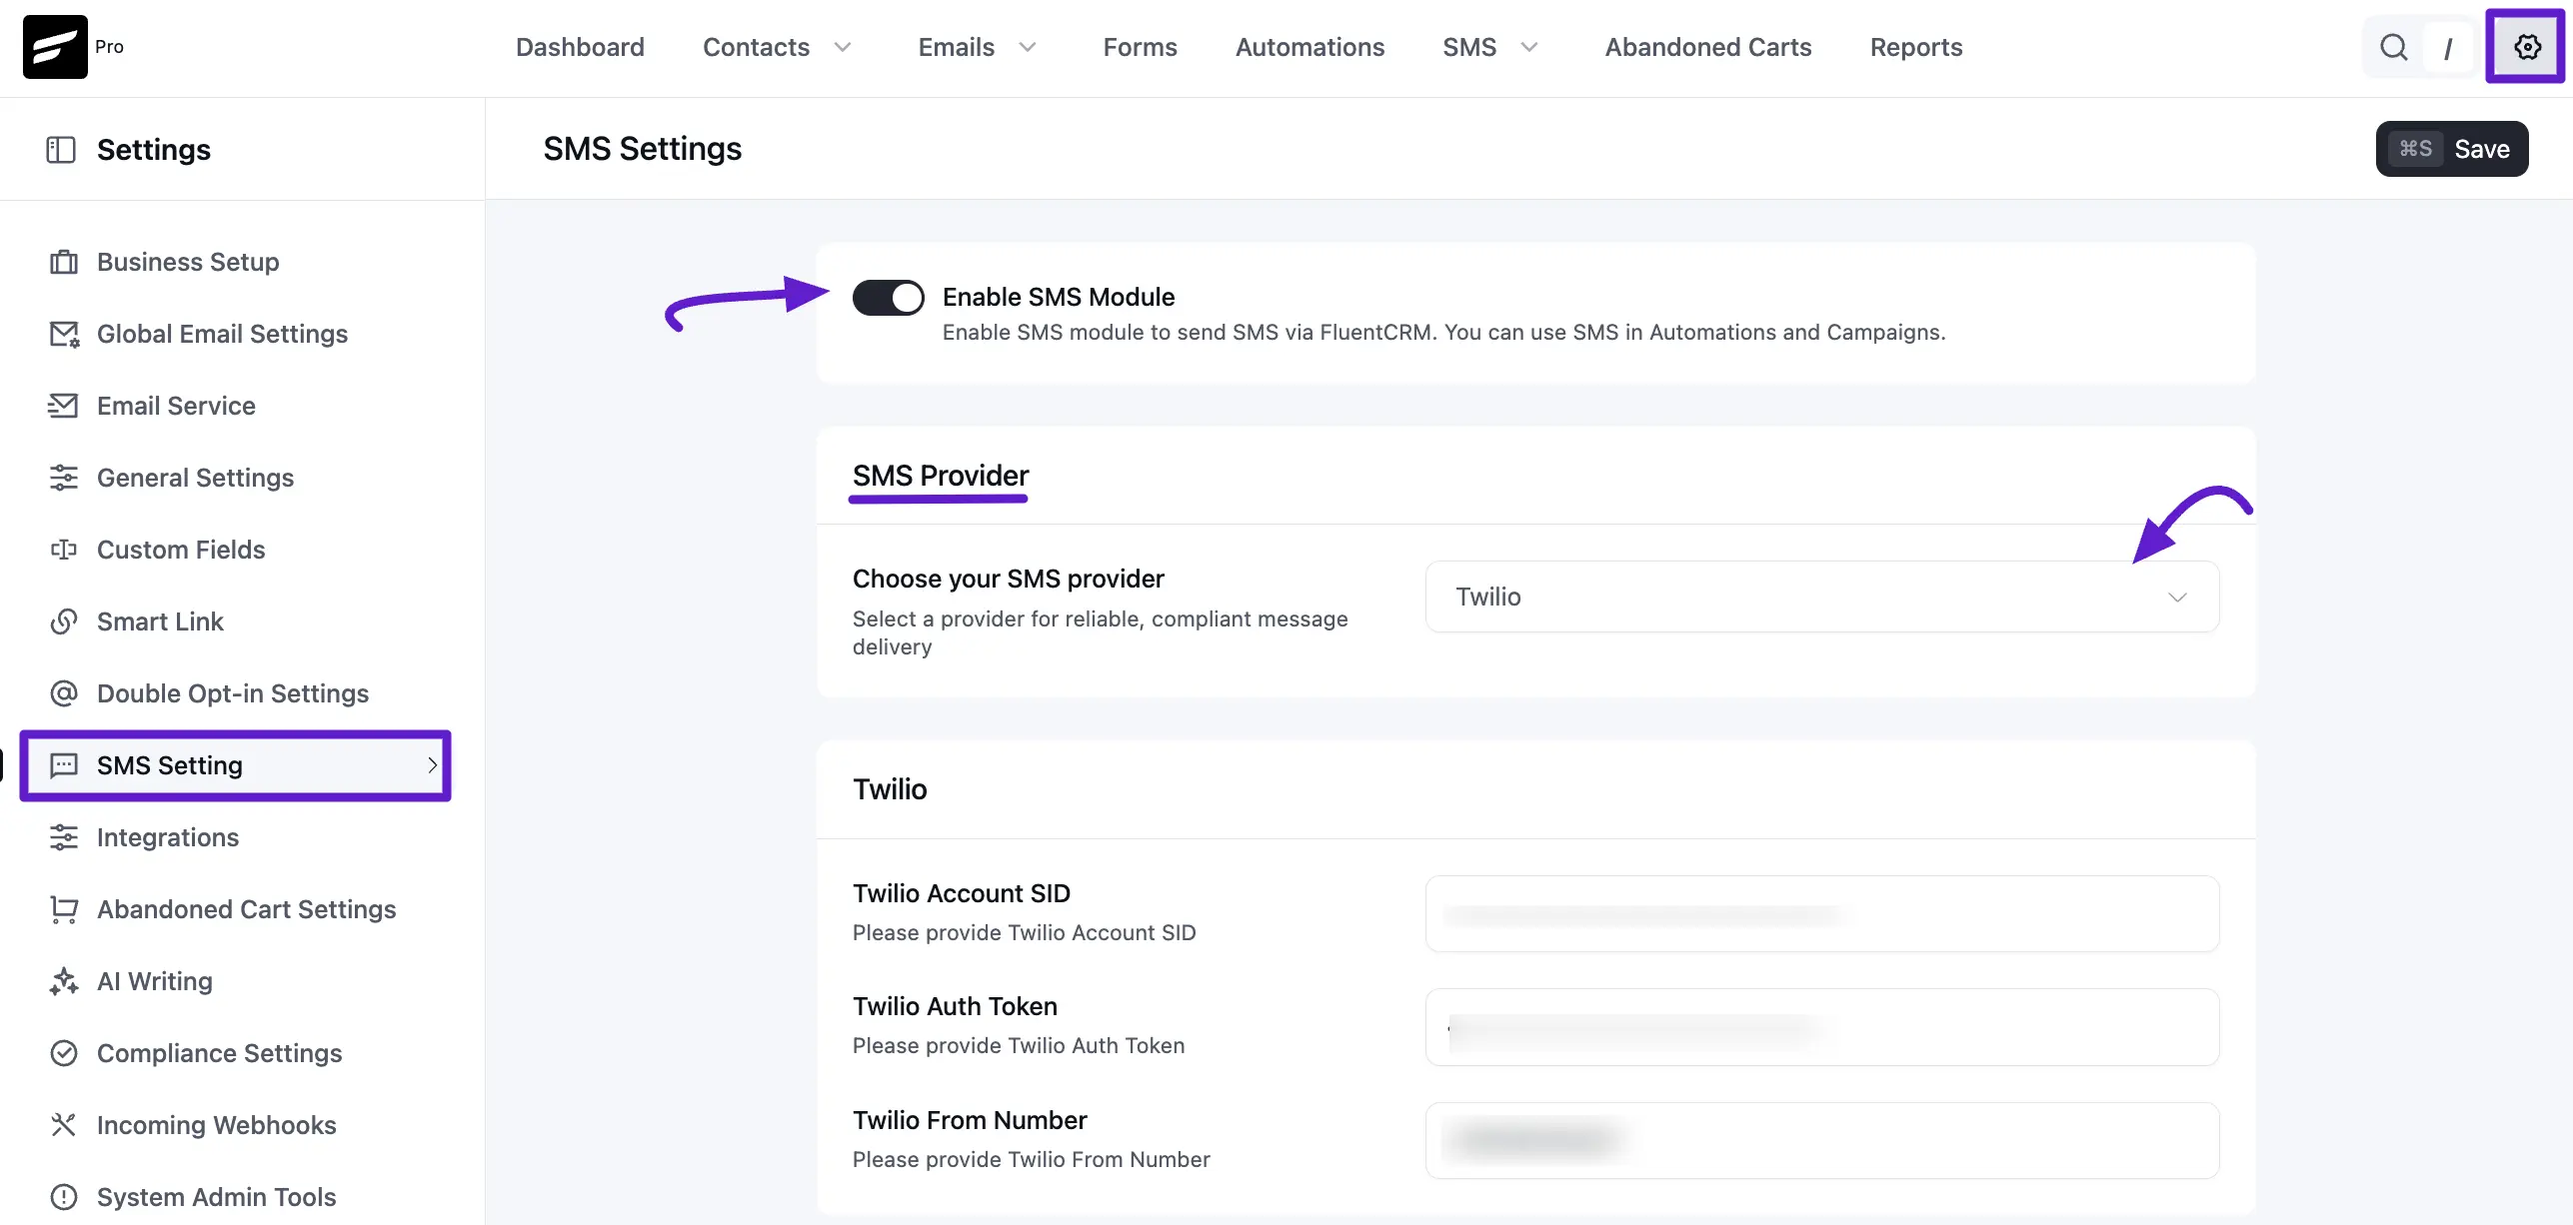
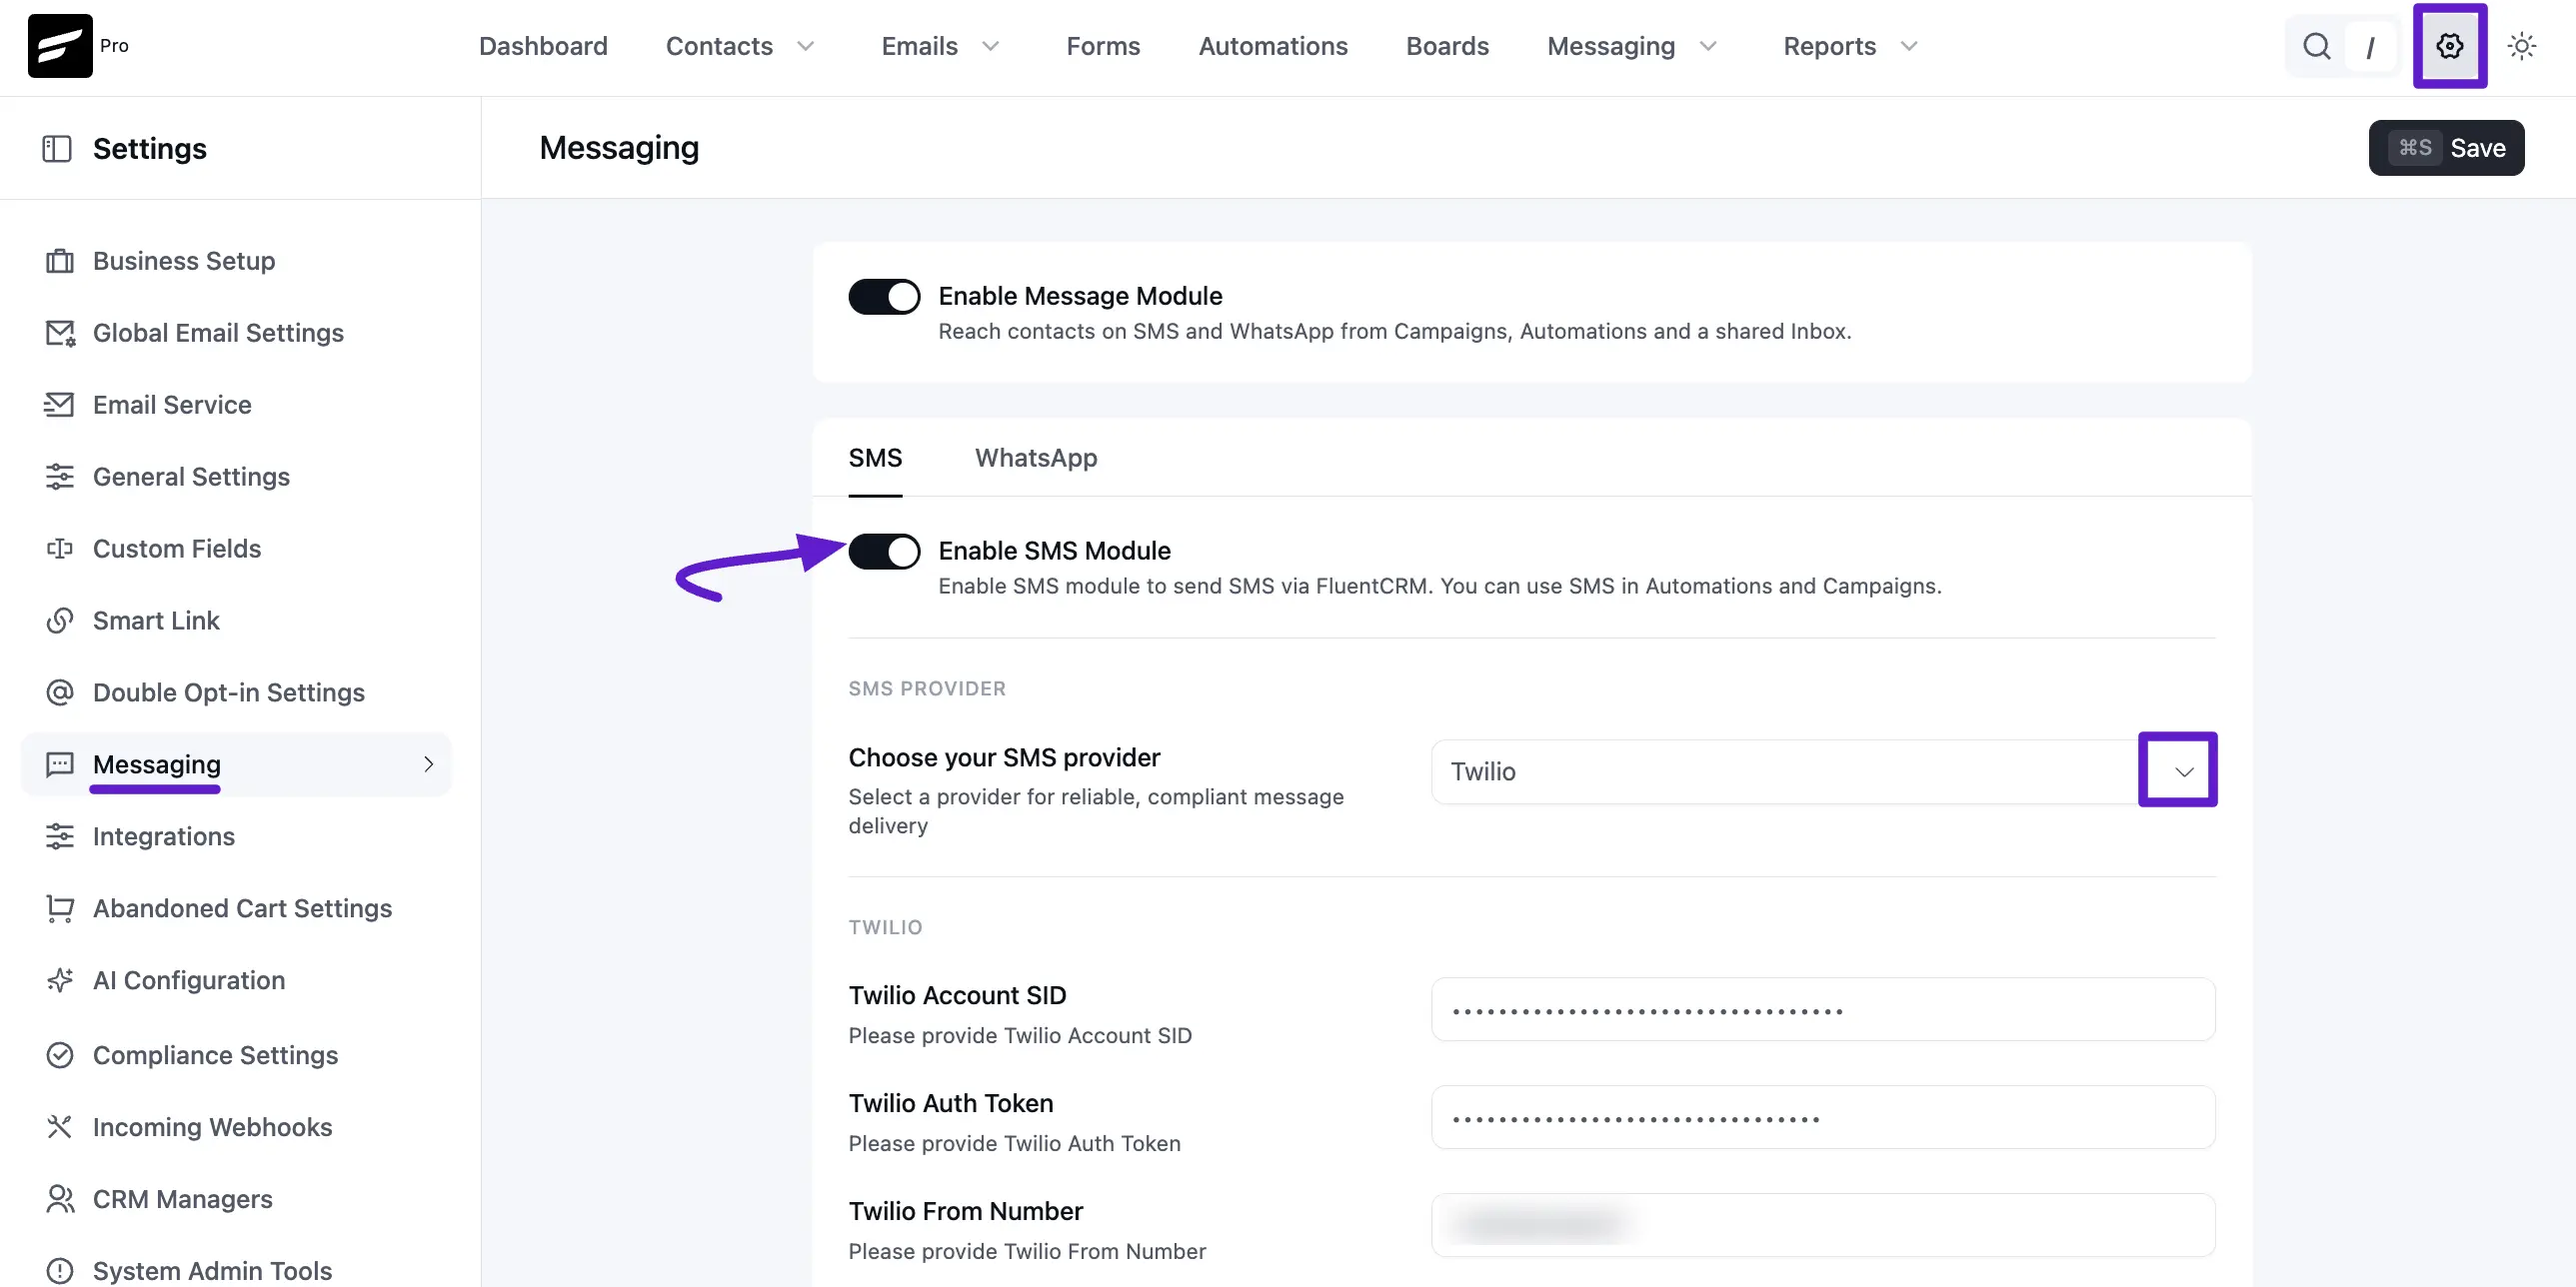
update Twilio SMS Integration doc

diff --git a/docs/sms-module/twilio-integration.md b/docs/sms-module/twilio-integration.md
@@ -14,10 +14,12 @@ Follow the steps below to connect your Twilio account to FluentCRM.
 
 ## Accessing the Twilio SMS Provider
 
-Before you begin, ensure you have enabled the **SMS Module** in your FluentCRM settings. You can do this by navigating to **FluentCRM Pro** > **Settings** > **SMS Settings** and toggling the **Enable SMS Module** switch to **ON**.
+Before you begin, ensure you have enabled the **SMS Module** in your FluentCRM settings. 
 
-1.  From the **SMS Settings** page, locate the **SMS Provider** section.
-2.  Click the **Choose your SMS provider** dropdown menu and select **Twilio** from the available options.
+Go to **FluentCRM Pro** > **Settings** > **Messaging**, turn on **Enable Message Module**, then switch to the **SMS** tab and toggle **Enable SMS Module** to **ON**. See [Configure SMS Module](/configure-sms-module) if you haven't done this yet.
+
+1.  Under **SMS Provider**, locate the **Choose your SMS provider** dropdown.
+2.  Click it and select **Twilio** from the available options.
 
 ![Accessing the Twilio SMS Provider](/sms-module/twilio-integration/twilio-sms-1.webp)
 
